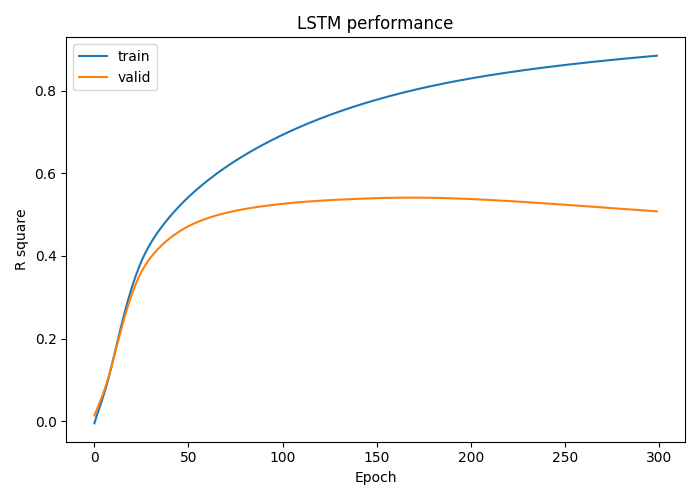
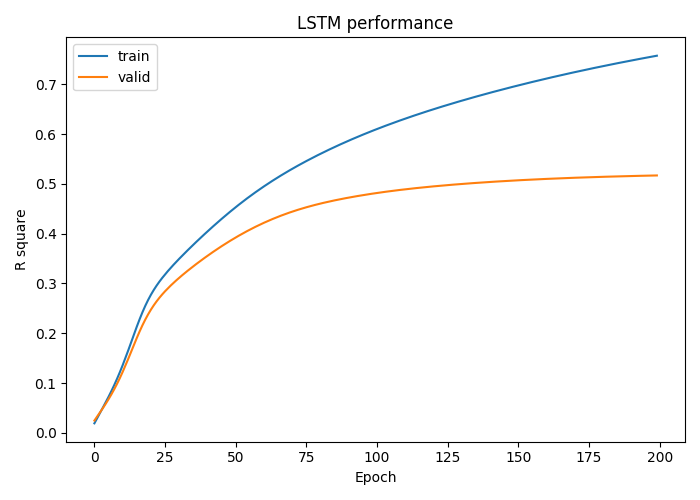
add 0~4Hz

diff --git a/Python_code/Pytorch/ITPC/ITPC_LSTM.py b/Python_code/Pytorch/ITPC/ITPC_LSTM.py
@@ -37,7 +37,7 @@ mat_file_processing=load_mat_file.mat_file_processing()
 file_name_1='../../../Dataset/Sorted_Spike_Dataset/indy_20161007_02.mat'
 file_list=[file_name_1]
 
-bandwidth_token='0_5-40Hz'
+bandwidth_token='0_5-4Hz'
 
 file_itpc_abs_1='../../Signal_Processing/Inter-Channel_Clustering_Preprocess/Inter-Channel_Clustering_Output_Table/'+bandwidth_token+'/250Hz/ITPC_abs_250Hz.csv'
 file_itpc_angle_1='../../Signal_Processing/Inter-Channel_Clustering_Preprocess/Inter-Channel_Clustering_Output_Table/'+bandwidth_token+'/250Hz/ITPC_angle_250Hz.csv'
@@ -345,32 +345,32 @@ for k in range(new_training_x.size(0)):
 
     for i in range(96):
         # pass
-        new_training_x[k,-2]=abs(new_training_x[k,-2])
+        # new_training_x[k,-2]=abs(new_training_x[k,-2])
 
         # new_training_x[k,i]=new_training_x[k,i]*abs(new_training_x[k,-2])*new_training_x[k,-1]
         # new_training_x[k,i]=new_training_x[k,i]*abs(new_training_x[k,-2])
 
-        # new_training_x[k,-2]=abs(new_training_x[k,-2])*new_training_x[k,-1]
+        new_training_x[k,-2]=abs(new_training_x[k,-2])*new_training_x[k,-1]
 
 
 for k in range(new_testing_x.size(0)):
     for i in range(96):
         # pass
-        new_testing_x[k,-2]=abs(new_testing_x[k,-2])
+        # new_testing_x[k,-2]=abs(new_testing_x[k,-2])
 
         # new_testing_x[k,i]=new_testing_x[k,i]*abs(new_testing_x[k,-2])*new_testing_x[k,-1]
         # new_testing_x[k,i]=new_testing_x[k,i]*abs(new_testing_x[k,-2])
-        
-        # new_testing_x[k,-2]=abs(new_testing_x[k,-2])*new_testing_x[k,-1]
 
-new_training_x=new_training_x[:,:]
-new_testing_x=new_testing_x[:,:]
+        new_testing_x[k,-2]=abs(new_testing_x[k,-2])*new_testing_x[k,-1]
+
+new_training_x=new_training_x[:,:97]
+new_testing_x=new_testing_x[:,:97]
 
 
 # Neural Network
 batch_size = 16
 learning_rate=1e-3
-max_epoch=300
+max_epoch=200
 
 # LSTM
 hidden_dim=100
